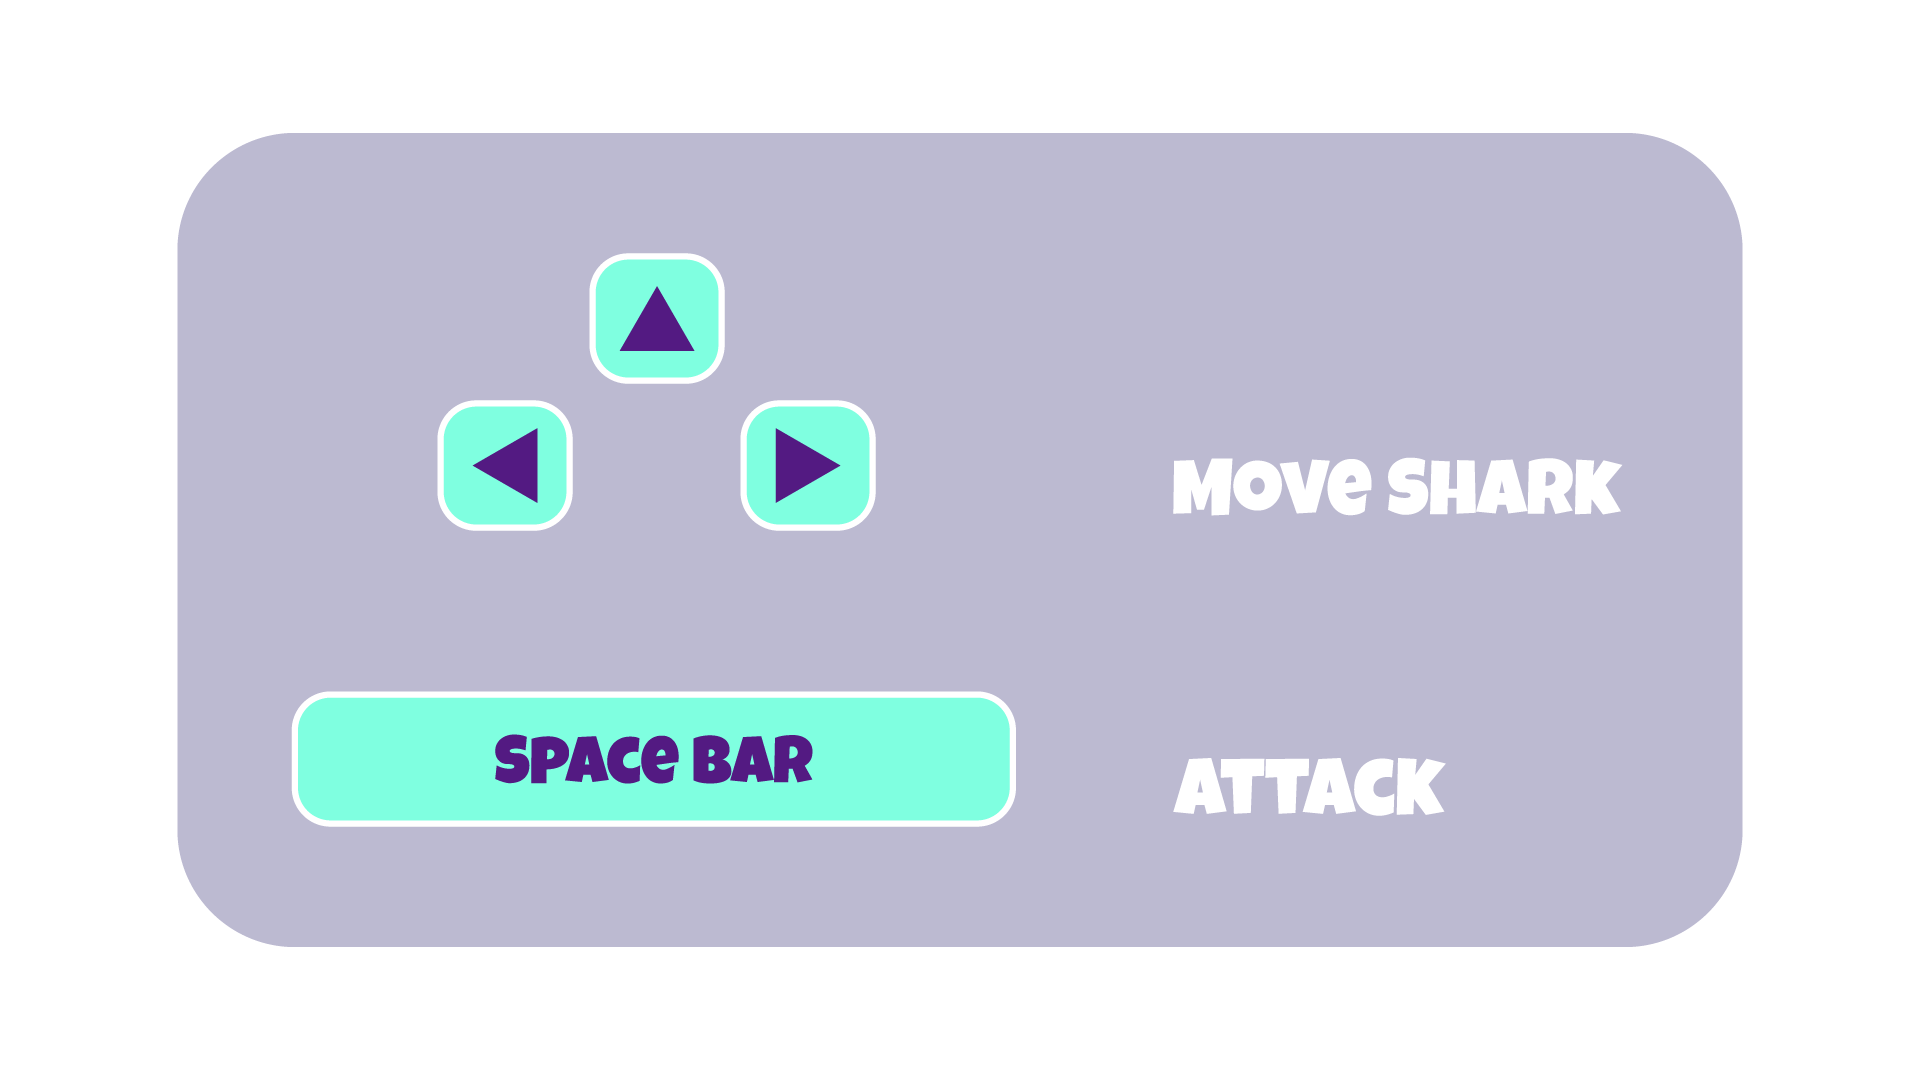
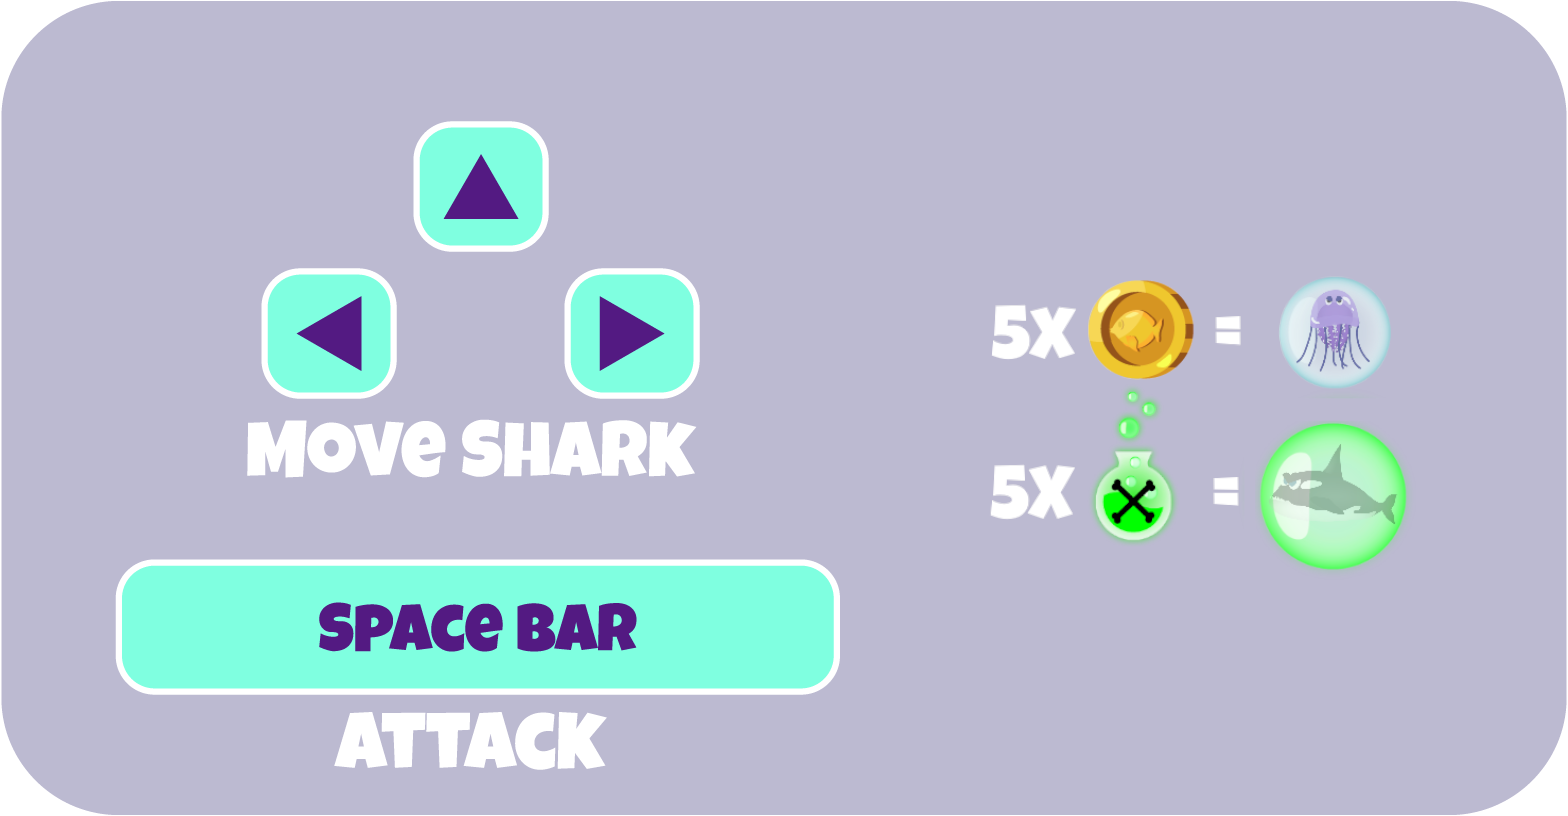
Added hints for game mechanics, minor fixes

diff --git a/js/game.js b/js/game.js
@@ -53,6 +53,7 @@ function initGame() {
     document.getElementById('fullscreen').classList.remove('d-none');
     document.getElementById('sound').classList.remove('d-none');
     document.getElementById('victory').classList.add('d-none');
+    document.getElementById('impress').classList.add('d-none');
     checkDevice();
 }
 
@@ -313,4 +314,5 @@ function showMenu() {
     stopAllIntervals();
     document.getElementById('start').classList.remove('d-none');
     document.getElementById('victory').classList.add('d-none');
+    document.getElementById('impress').classList.remove('d-none');
 }

diff --git a/index.html b/index.html
@@ -85,7 +85,7 @@
         </div>
         <img id="controls" src="img/6_botones/instructions_2.png" alt="Sharky controls" class="d-none">
         <div class="position-fixed bottom-0 end-0 p-2">
-            <button class="btn btn-link text-decoration-none text-light" data-bs-toggle="modal" data-bs-target="#impressumModal">
+            <button class="btn btn-link text-decoration-none text-light" data-bs-toggle="modal" data-bs-target="#impressumModal" id="impress">
                 Impressum
             </button>
         </div>

diff --git a/style.css b/style.css
@@ -75,7 +75,7 @@ h1.custom-font {
 
 
 #controls {
-    width: 100%;
+    width: 80%;
     max-width: 720px;
 }
 
@@ -94,6 +94,7 @@ h1.custom-font {
 #tryAgain:hover {
     opacity: 1;
 }
+
 
 #restart {
     display: flex;
